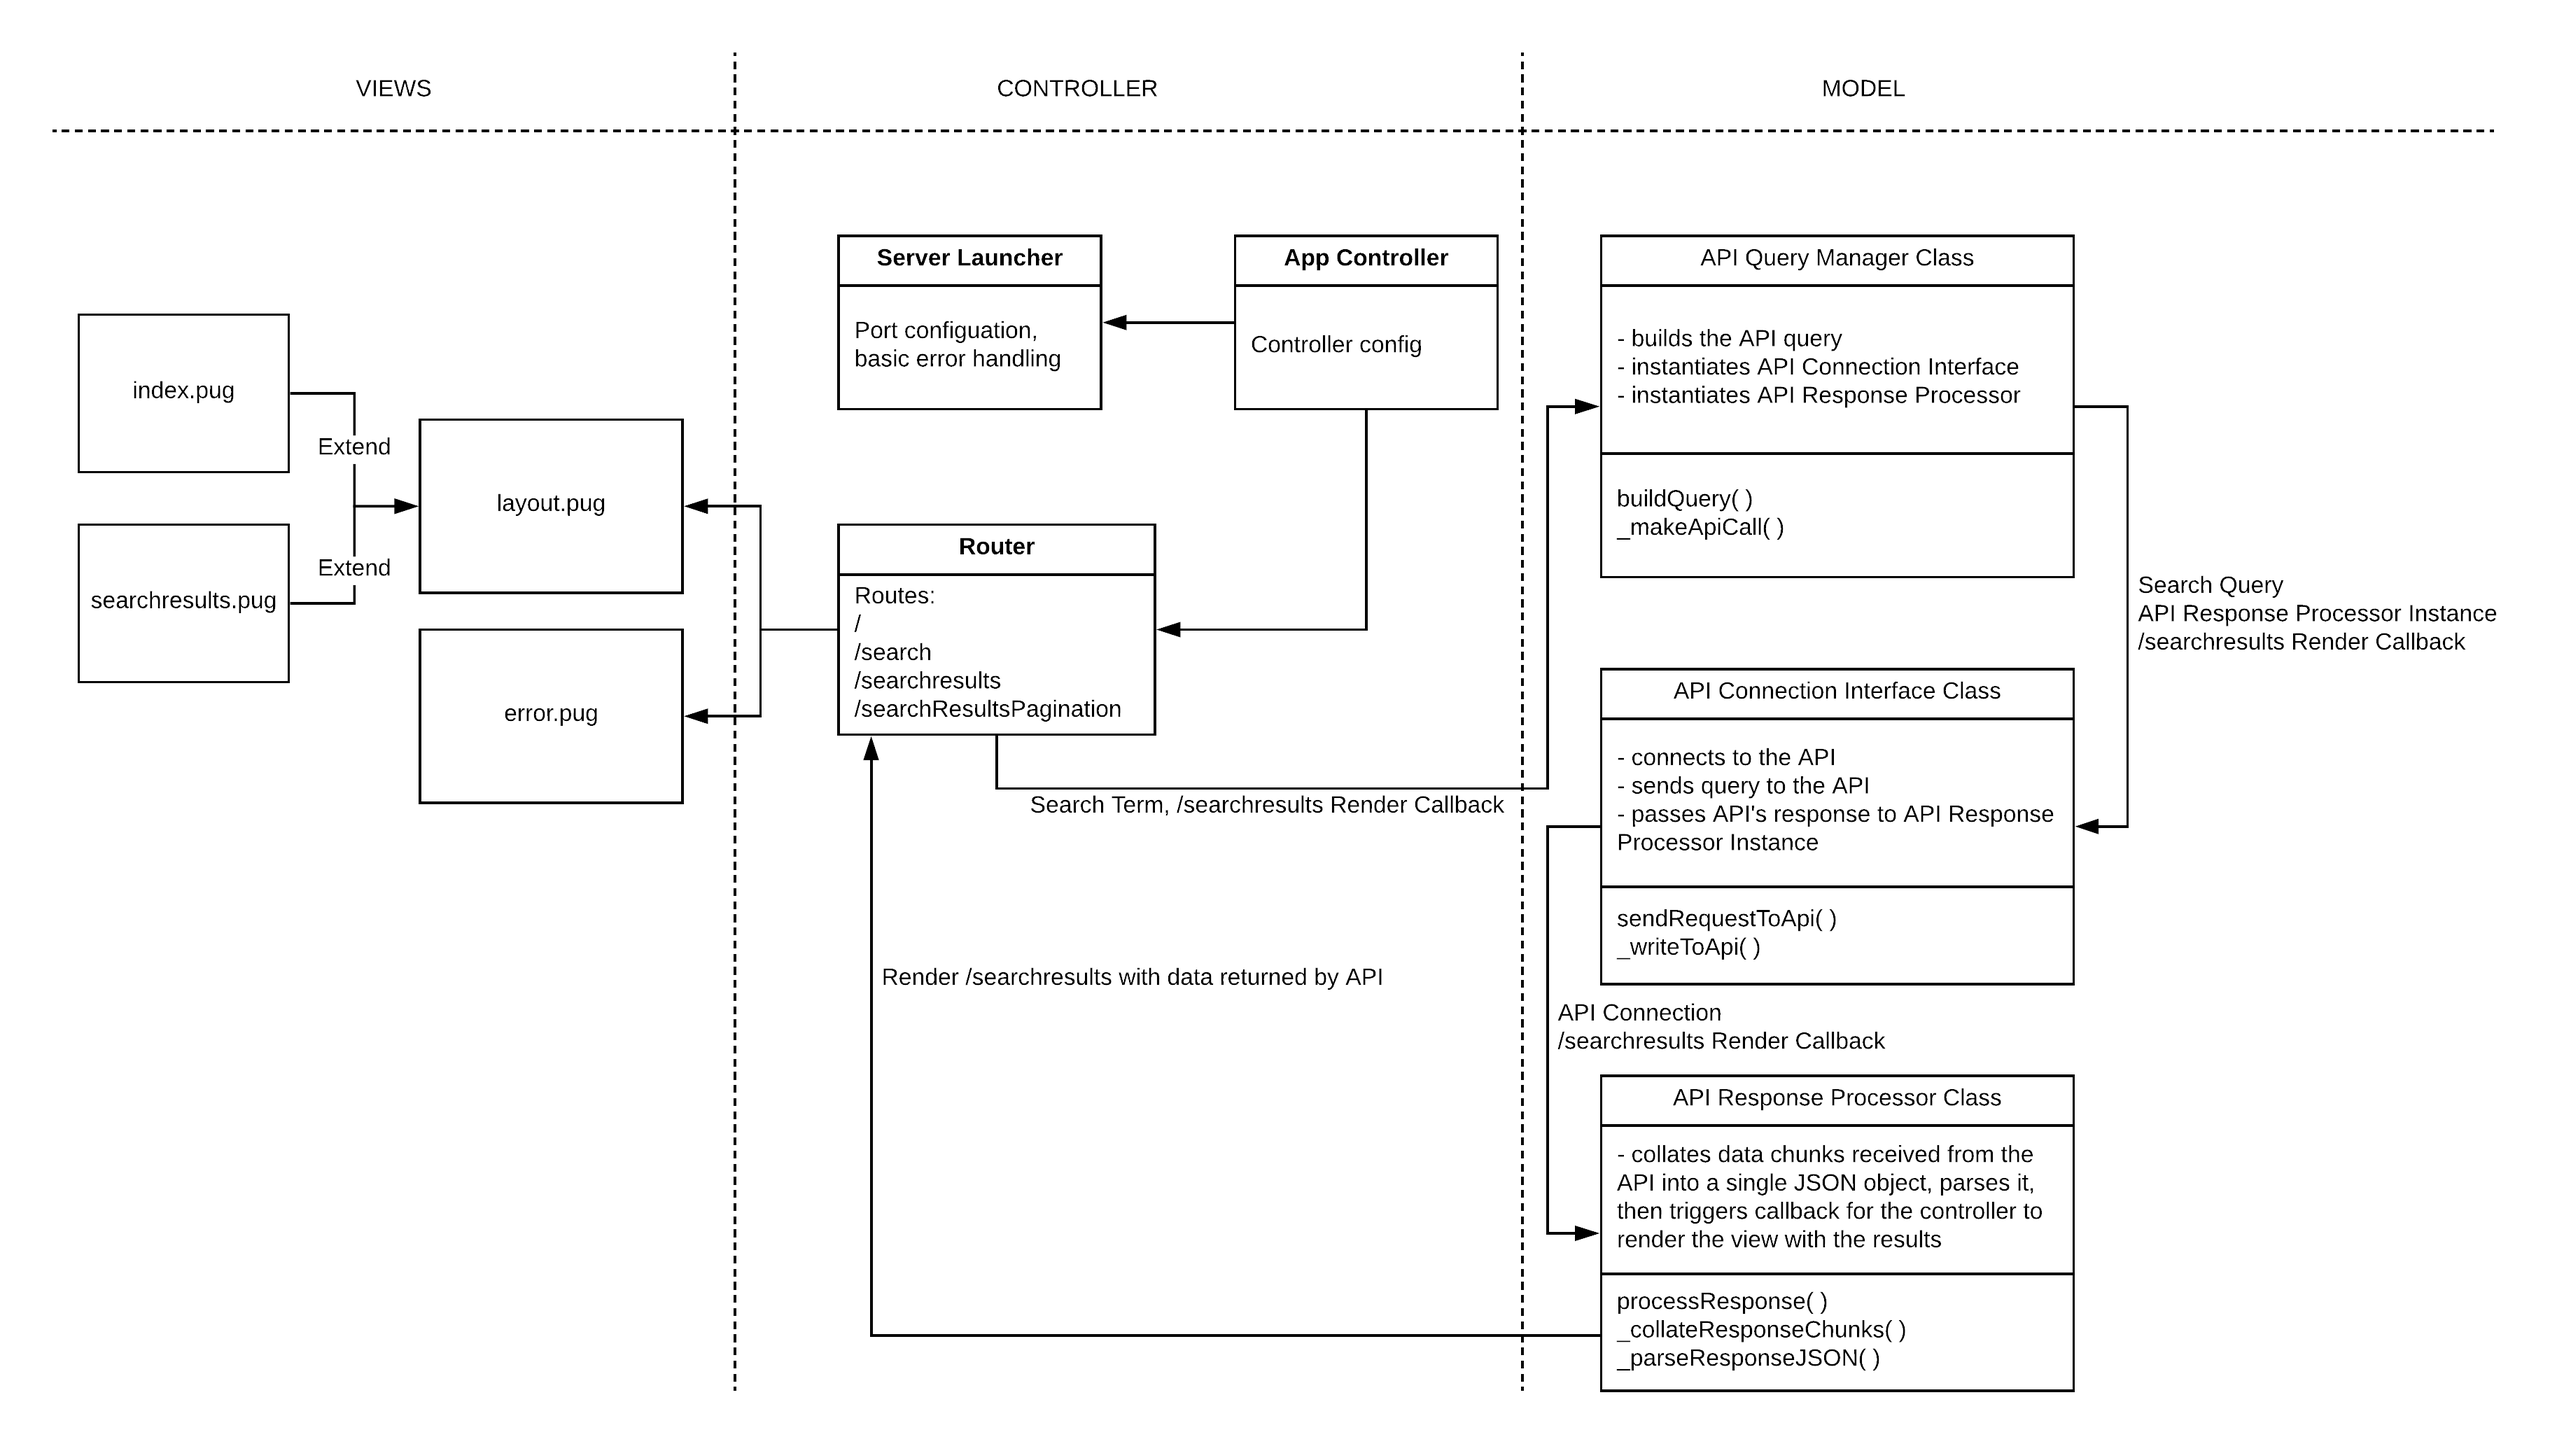
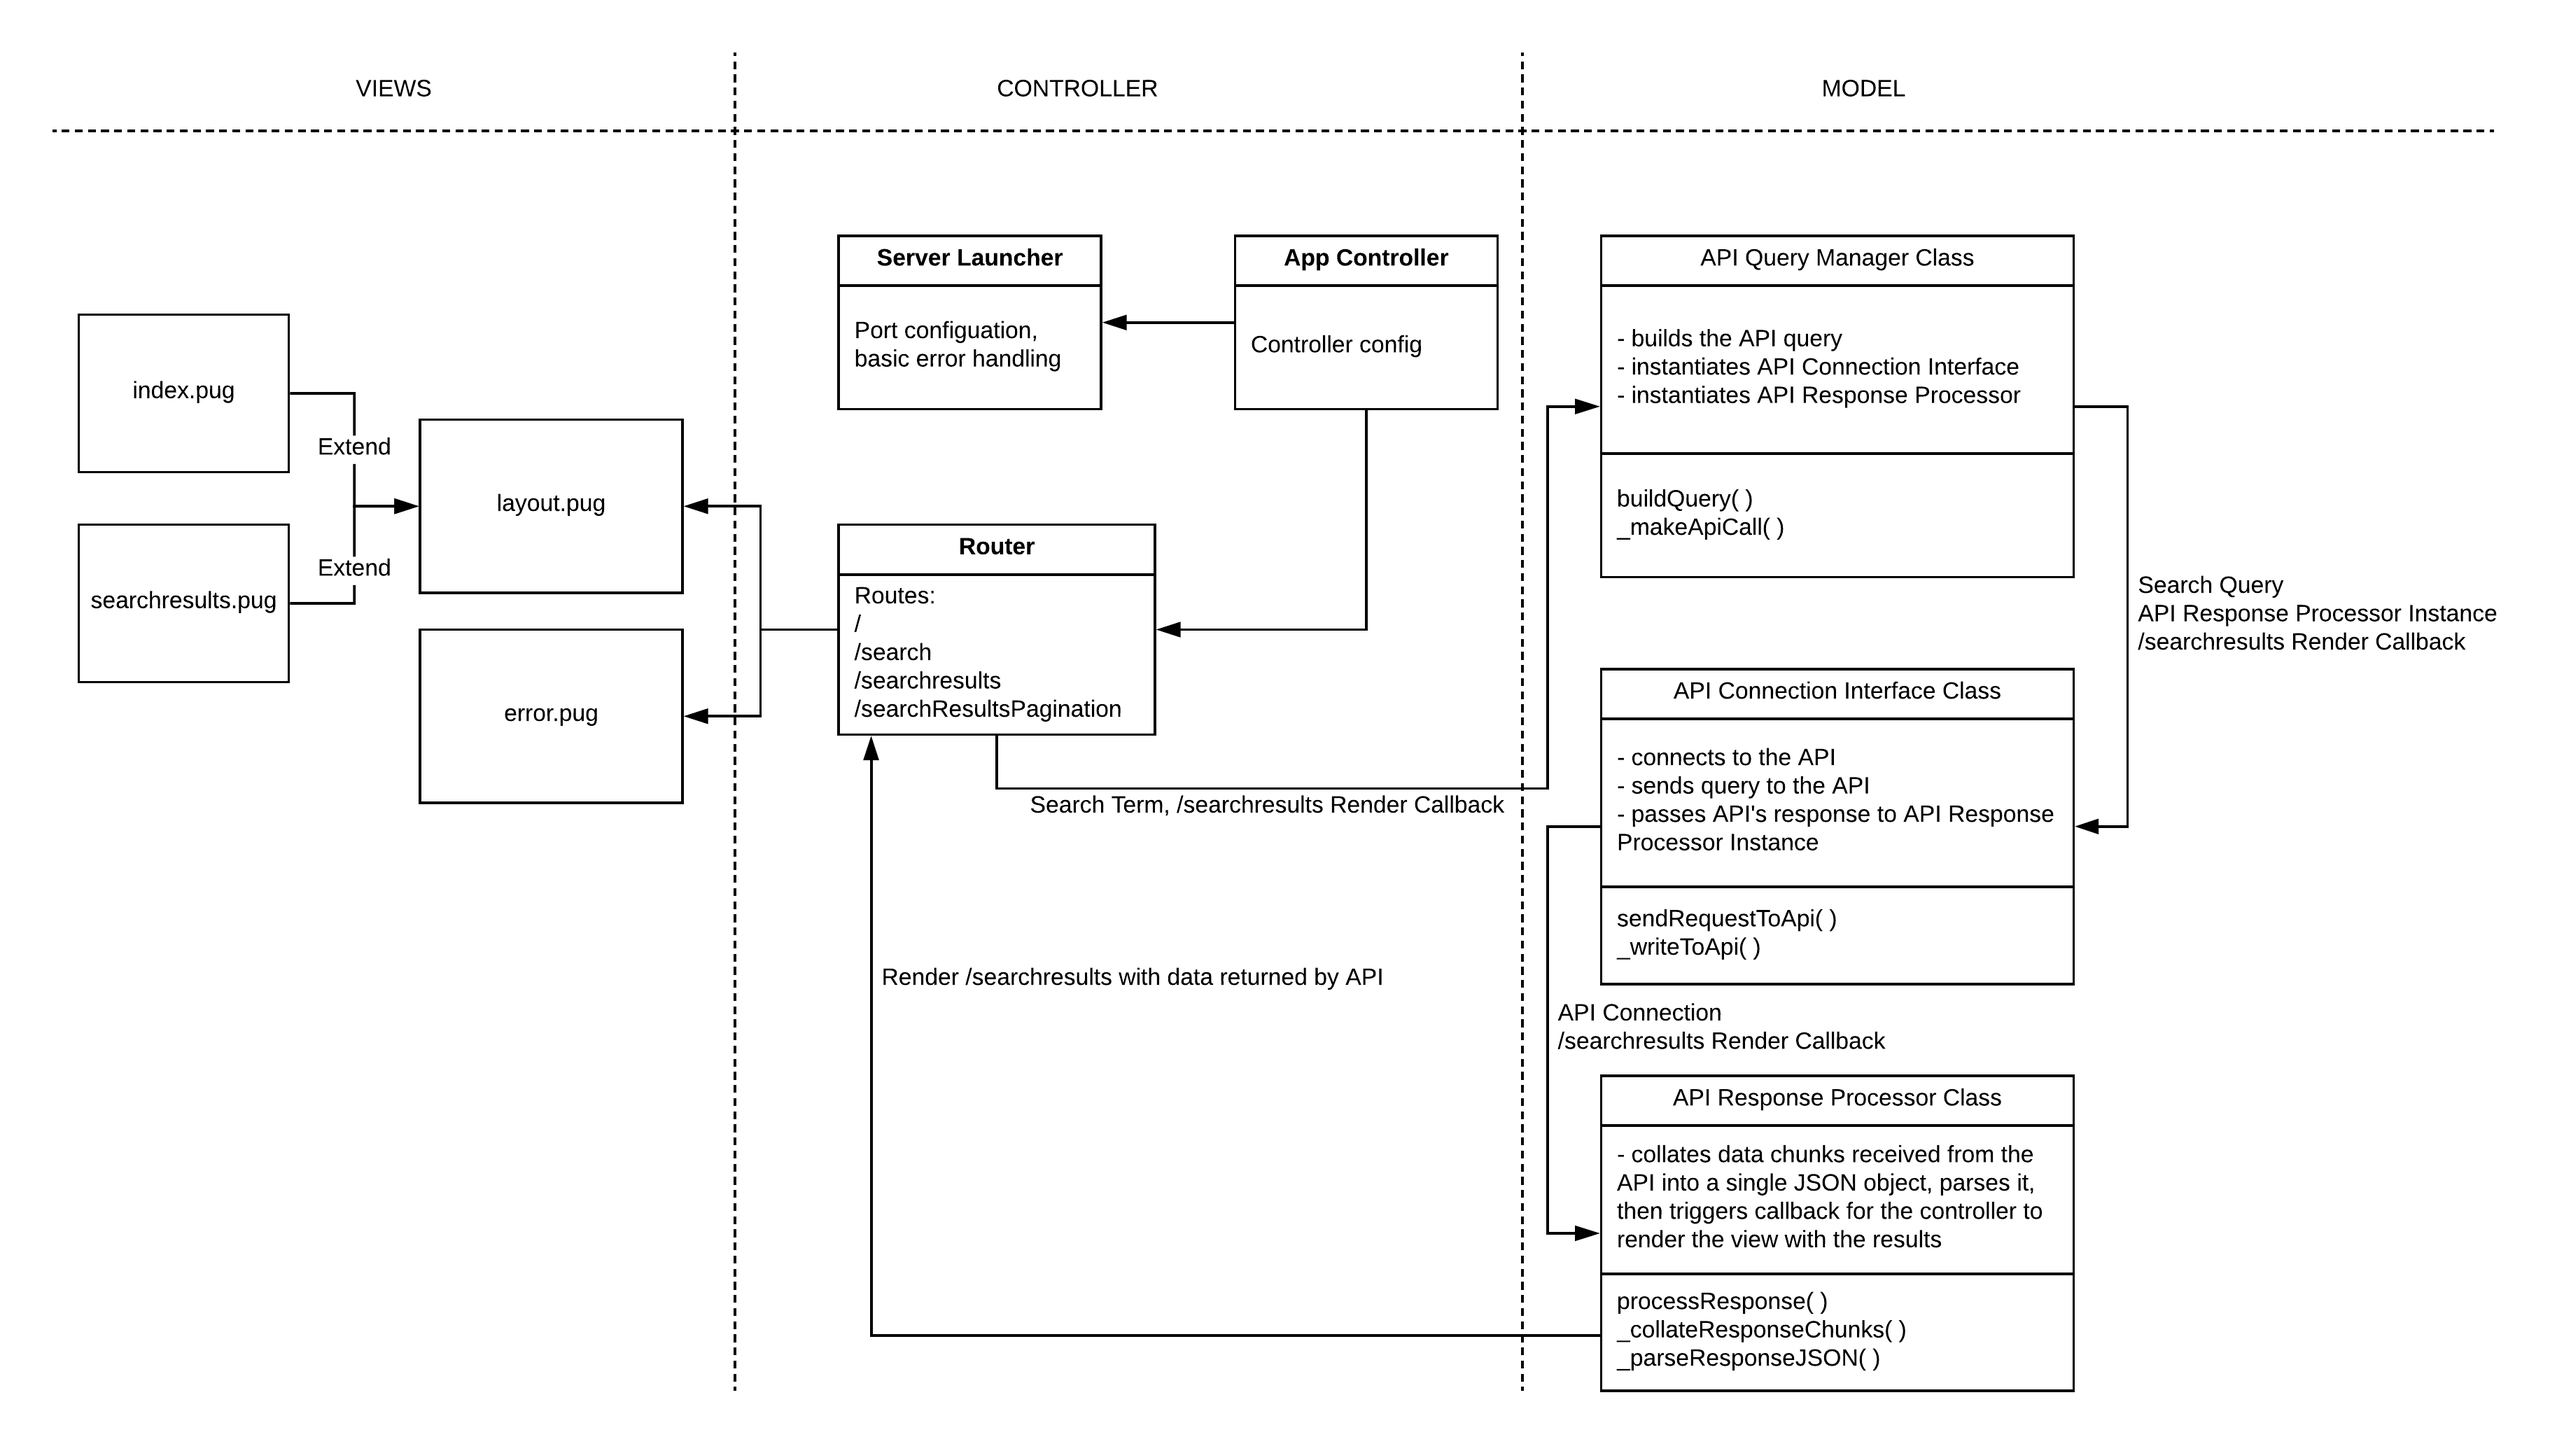
Amend typos and grammar in README, change class diag

diff --git a/README.md b/README.md
@@ -24,6 +24,7 @@ This app is deployed on [Heroku](https://ft-headline-search.herokuapp.com/)
 - [Issues, Improvement & Challenges](#issues,-improvement-&-challenges)
 - [What I learned](#what-i-learned)
 - [Acknowledgements](#acknowledgments)
+- [Licensing](#licensing)
 
 ## The Task
 Build a website that shows a list of news headlines from Financial Times. You may use FT Developer APIs to achieve this.
@@ -75,10 +76,10 @@ To better understand how the FT API and various technologies work I:
 
 - reviewed FT API reference to understand how to correctly structure an API query, available options and endpoints, structure of the returned response;
 - reviewed the Node.js' [`http.request`](https://nodejs.org/dist/latest-v8.x/docs/api/http.html#http_http_request_options_callback) documentation to understand how to make the HTTP call;
-- run [`express-generator`](https://expressjs.com/en/starter/generator.html) to review standard set up for an Express.JS app; and
-- built a small simple app in that made a call to the API and printed the response to the console.
+- run [`express-generator`](https://expressjs.com/en/starter/generator.html) to review the standard set up for an Express.JS app; and
+- built a small simple app that made a call to the API and printed the response to the console.
 
-I used [Json Parser Online](http://json.parser.online.fr/) by Olivier Cuenot to get a better view of the structure of the returned JSON.
+I used [Json Parser Online](http://json.parser.online.fr/) by Olivier Cuenot to get a better view of the structure of the returned JSON object.
 
 ### Design
 
@@ -87,7 +88,7 @@ I used [Json Parser Online](http://json.parser.online.fr/) by Olivier Cuenot to 
 I decided that the MVP I wanted to achieve would be:
 
 - a simple search box that would allow the user to enter search terms;
-- follows a search, a list of up to 20 results would be displayed.
+- following a search, a list of up to 20 results would be displayed.
 
 Once MVP was complete, I added some Origami components and the ability to page through results at 20 a time (backwards and forwards).
 
@@ -168,13 +169,13 @@ The coverage is not as high as I would like. This is due to the use of callbacks
 
 ### Feature Tests
 
-I planned to use Cypress.io to feature test the app. Due to time constraints, I did not manage to write anything but the very basis test to check that the homepage opens correctly. This is definately one of the issues that needs improvement.
+I planned to use Cypress.io to feature test the app. Due to time constraints, I did not manage to write anything but a very basic test to check that the homepage opens correctly. This is definitely one of the issues that needs improvement.
 
-Run cypress test with `npm run feature_test`, then click on `Run all specs` in the Cypress GUI.
+Run Cypress test with `npm run feature_test`, then click on `Run all specs` in the Cypress GUI.
 
 ### Linting
 
-I used Webstorm's built-in ESLint with [JavaScript Standard Style](https://standardjs.com/) plugin 
+I used Webstorm's built-in ESLint with [JavaScript Standard Style](https://standardjs.com/) plugin.
 
 ## Deployment
 
@@ -196,17 +197,21 @@ I have provided some very basic accessibility features. ARIA provides quite deta
 
 #### Search Terms
 
-The FT API allows various search options, such as search by title, sorting and searching various types of content. The app could be improved by providing the user with the opportunity to perform an 'advanced' search that would make a fuller use of API's capabilities.
+The FT API allows various search options, such as search by title, sorting and searching various types of content. The app could be improved by providing the user with an opportunity to perform an 'advanced' search that would make a fuller use of the API's capabilities.
 
 #### Adding Images to Search Results
 
-The FT API allows obtaining the url for the image associated with the article. While I did try to implement the display of the images, I did not know enough of Origami to make images display properly and in the end did not implement it, but it is an option for improvement.
+The FT API allows obtaining the url for the image associated with the article. While I did try to implement displaying of the images, I did not know enough of Origami to make images display properly in the correct place and in the end did not implement it, but it is an option for improvement.
+
+#### Better Use of Origami
+
+While I did use some of the Origami components, I had to write some additional CSS for the pages to display as I envisaged. Undoubtedly, this is due to lack of familiarity with Origami and this is an area that could be improved.
 
 ### Challenges
 
 #### Promises
 
-I went down a rabbit whole for about a day trying to get an async/await implementation of the code to work. In the end, the solution was to simply use callback. I do not consider this time as wasted since I learned how callbacks work and as well as learning a lot about promises in JavaScript.
+I went down a rabbit hole for about a day trying to get an async/await implementation of the code to work. In the end, the solution was to simply use callbacks. I do not consider this time as wasted since I learned how callbacks work and as well as learning a lot about promises in JavaScript.
 
 #### JSON
 
@@ -214,7 +219,7 @@ It was a bit of a challenge to work out how to get the data out of the JSON resp
 
 #### Resetting sessions
 
-My calculation of the API offset uses sessions to store the current offset. I had a few interesting moments where the app would break because I did not reset the offset stored in session. In the end, implementing a separate route for pagination of results, and resetting the session variable on new search resolved this issue.
+My calculation of the API offset uses sessions to store the current offset. I had a few interesting moments where the app would break because I did not reset the offset stored in session. In the end, implementing a separate route for pagination of results and resetting the session variable on new search resolved this issue.
 
 ## What I learned
 
@@ -224,10 +229,18 @@ My calculation of the API offset uses sessions to store the current offset. I ha
 - Offset v Cursor API pagination
 - Things always take longer than you plan
 - Accessibility is a major topic which I need to improve on
-- There is usually a way to do what you want to do, even if that produces ugly code - at least that gives you a good place to start.
+- There is usually a way to do what you want to do, even if that produces ugly code - at least that gives you a good place to start
 
 ## Acknowledgments
 
-* Makers for getting me to love coding more than I thought was possible and teaching me that eternal truth 'It is not hard, it's just new'
-* FT for giving me an opportunity to do this tech test and write code that searched their API for `undefined` more times than I care to admit.
+* Makers for getting me to love coding more than I thought was possible and teaching me that 'It is not hard, it's just new'.
+* FT for giving me an opportunity to do this tech test and write code that searched their API for `undefined` more times than I care to admit. It does produce about 215 results, by the way :)
 * StackOverflow poster (I lost the actual post, apologies) for helping me to get out of async hell by crisply responding to a post by another questioner with 'You don't need promises for this, callback function would suffice'. I learned callbacks then in one of those 'Aha!' moments. Thank you!
+
+## Licensing
+
+FT places certain requirements in respect of information necessary to include in the API query string, and display of FT logo for attribution purposes. I have complied with these requirements.
+
+---
+`Prepared by: Igor Ryabchuk`
+
